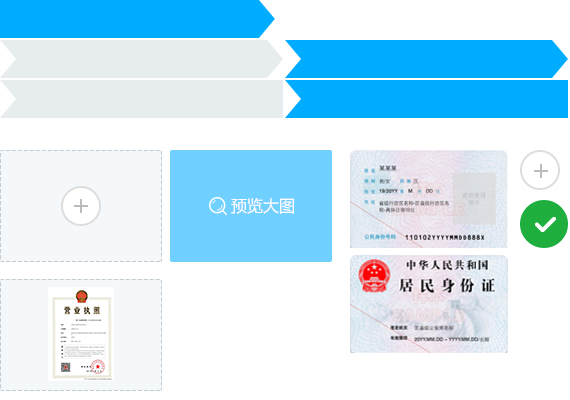
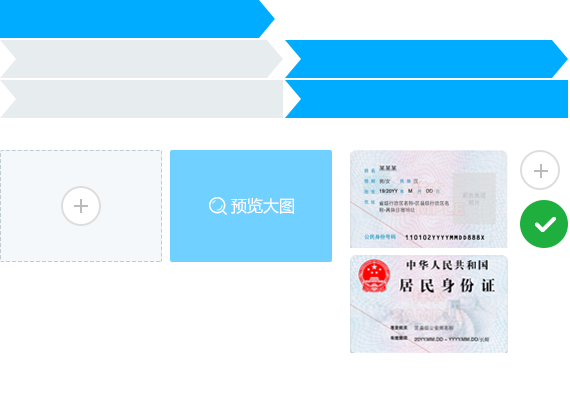
注册页面

Changed region(s): [[0.0895, 0.72, 0.2088, 0.96]]

diff --git a/asset/css/register.css b/asset/css/register.css
@@ -1,7 +1,60 @@
-.test{
-    color:#0f0;
-}
-body{
-    font-size: 22px;
-}
-/*wang*/
+@charset "utf-8";
+.page-kd { width: 1100px; margin: 0 auto; }
+/* 头部*/
+.header { height: 100px; padding-top: 15px; }
+.header .top-logo { background: url(../img/ay-logo.png) no-repeat; height: 54px; width: 143px; display: block; margin: 0 50px 30px; }
+.header .hide-text { overflow: hidden; text-indent: 100%; white-space: nowrap; font-size: 14px; }
+/* 注册进度 */
+.jd-list { overflow: hidden; }
+.jd-list ul { list-style: none; margin: 0; padding: 0; }
+.jd-list ul li { float: left; width: 283px; height: 38px; vertical-align: top; padding-top: 10px; padding-bottom: 10px; line-height: 16px; padding-left: 60px; background-image: url(../img/bg-all.png); background-repeat: no-repeat; color: #666; position: relative; margin-left: -8px; font-size: 14px; }
+.jd-list ul li.last { width: 275px; margin-left: 0; }
+.jd-list ul li.middle { width: 283px; background-position: 0 -40px; }
+.jd-list ul li.first { width: 283px; background-position: 0 -80px; }
+.jd-list ul li .yuan { background: url(../img/bg-all.png) no-repeat 0px -120px; display: block; height: 18px; width: 18px; line-height: 18px; float: left; text-align: center; margin-right: 10px; }
+.jd-list ul li.ok { color: #fff; }
+.jd-list ul li.ok .yuan { color: #00acff; }
+.jd-list ul li.middle.ok { background-position: -285px -40px; }
+.jd-list ul li.first.ok { background-position: -285px -80px; }
+/* 注册内容  */
+.reg-content { margin-top: 30px; background: #fff; border-radius: 4px; box-shadow: 0px 5px 17px 0px rgba(0, 13, 19, 0.04); padding-top: 50px; padding-bottom: 50px; clear: both; overflow: hidden; }
+/* 信用代码验证*/
+.reg-content .idcode { width: 640px; float: left; border-right: 1px solid #dedede; }
+.reg-content .idcode .tip-content { font-size: 16px; margin-left: 120px; }
+.reg-content .idcode .id-type { margin-top: 30px; }
+.reg-content .idcode .id-type .left { float: left; width: 200px; height: 60px; text-align: right; line-height: 60px; padding-right: 10px; }
+.reg-content .idcode .id-type .idname .hang { line-height: 30px; margin: 0px; }
+.reg-content .idcode label { font-size: 14px; font-weight: normal; color: #666; margin-bottom: 0; }
+.reg-content .idcode label input,
+.reg-content .idcode .xieyi label input { vertical-align: -2px; margin-right: 6px; }
+.btn-ay { color: #fff; background-color: #00acff; border-color: #00acff; }
+.btn-ay:hover { color: #fff; background-color: #009bfe; border-color: #009bfe; }
+.btn-ay.focus, .btn-ay:focus { color: #fff; background-color: #0095fe; border-color: #0095fe; }
+.reg-content .idcode .checkin-box { margin-top: 30px; line-height: 36px; height:36px; }
+.reg-content .idcode .checkin-box .left { width: 200px; text-align: right; padding-right: 10px; height: 36px; float: left; }
+.reg-content .idcode .checkin-box .reginput { width: 300px; }
+.reg-content .idcode .checkin-box .input-text { margin-left: 200px; position: relative; }
+.reg-content .idcode .checkin-box .input-text .regtip { font-size: 14px; line-height: 20px; color: #f00; position: absolute; z-index: 2; height: 20px; left: 0px; bottom: -24px; display:none; }
+.reg-content .idcode .checkin-box .input-text input { height: 36px; }
+.reg-content .idcode .checkin-box .input-text .code { width: 100px; float: left; }
+.reg-content .idcode .checkin-box .input-text .codeimg { border-radius: 6px; border: solid 1px #ccc; display: block; float:left; margin-left: 12px; }
+.reg-content .idcode .checkin-box .input-text .upcodeimg { margin-left: 12px; color: #00acff; width:78px; height: 36px; }
+.reg-content .idcode .checkin-box .input-text .upcodeimg a { color: #f00 }
+.reg-content .idcode .xieyi { padding-left: 200px; margin-top: 30px; font-size:12px; }
+.reg-content .idcode .xieyi label { font-size:12px; color: #666; }
+.reg-content .idcode .xieyi label input { vertical-align: -2px; }
+.reg-content .idcode .xieyi a { color: #00acff; }
+.reg-content .idcode .subform { margin-top:30px; margin-bottom:10px; padding-left: 200px; }
+.reg-content .idcode .subform .btn { width: 170px; height:36px; color: #fff; }
+.reg-content .login-text { text-align: center; margin-left: 640px; padding-top: 160px; font-size: 16px; }
+.reg-content .login-text a { margin-left:6px; color: #00acff; }
+/* 底部 */
+.reg-bottom { background: #424242; height: 46px; padding: 16px 0; margin-top: 60px; font-size: 14px; color: #fff; width: 100%; min-width: 1100px; }
+.reg-bottom .link { float: left; }
+.reg-bottom .link a { letter-spacing: 1px; margin-right: 20px; margin-left: 20px; line-height: 14px; color: #fff; font-size: 14px; }
+.reg-bottom .link em { font-style: normal; background: #fff; height: 14px; width: 1px; display: inline-block; }
+.reg-bottom .copyright { text-align: right; line-height:14px; margin-right: 20px; }
+/* 注册成功 */
+.reg-content .regok .title { height: 48px; font-size: 20px; color: #0073bd; text-align: center; line-height: 48px; margin-top: 50px; }
+.reg-content .regok .title em { background: url(../img/bg-all.png) no-repeat -520px -200px; display: inline-block; height: 48px; width: 48px; vertical-align: -14px; margin-right: 10px; }
+.reg-content .regok .text { width: 650px; border-top: dashed 2px #dedede; margin: 40px auto; padding-top: 50px; text-align: center; color: #666; font-size: 14px; height: 200px; }

diff --git a/app/view/register/tpl/step1.html b/app/view/register/tpl/step1.html
@@ -1,7 +1,52 @@
-<div class="step1">这里是step1</div>
-<a id="goStep2" href="/app/register.html#step2">下一步</a>
-<style lang="scss">
-    .step1{
-        color: pink;
-    }
-</style>
+{{include "./header.html"}}
+<div class="page-kd">
+    <!-- 注册进度 -->
+    <div class="jd-list">
+        <ul>
+            <li class="last ok"><span class="yuan">1</span>单位信息确认</li>
+            <li class="middle"><span class="yuan">2</span>单位信息确认</li>
+            <li class="middle"><span class="yuan">3</span>证照信息上传</li>
+            <li class="first"><span class="yuan">4</span>等待审核</li>
+        </ul>
+        <!-- 已完成或当前步骤的li里添加OK样式 -->
+    </div>
+    <div class="reg-content">
+        <div class="idcode">
+            <div class="tip-content">每个单位仅能注册一个账户</div>
+            <div class="id-type">
+                <div class="left">证件类型：</div>
+                <div class="idname">
+                    <div class="hang"><label><input id="idcode1" name="idcode1" type="radio" checked>多证合一营业执照</label></div>
+                    <div class="hang"><label><input id="idcode1" name="idcode1" type="radio">普通营业执照</label></div>
+                </div>
+            </div>
+            
+            <div class="checkin-box">
+                <div class="left">统一社会信用代码：</div>
+                <div class="input-text">
+                    <input name="xy-code" type="text" class="reginput form-control" id="xy-code" placeholder="请输入18位统一社会信用代码" value="" maxlength="18">
+                    <div class="regtip">请输入统一社会信用代码</div>
+                </div>
+            </div>
+            <div class="checkin-box">
+                <div class="left">验证码：</div>
+                <div class="input-text">
+                    <input name="yzm-code" type="text" class="code form-control" id="yzm-code" placeholder="" value="" maxlength="4">
+                    <img class="codeimg" id="codeimg" src="/asset/img/codeimg.png" width="78" height="36" >
+                    <span class="upcodeimg">看不清，<a href="javascript:;">换一换</a></span>
+                    <div class="regtip">请输入验证码</div>
+                </div>
+            </div>
+            
+            <div class="xieyi">
+                <label><input type="checkbox">我同意并遵守</label>
+                <a href="javascript:;">《安印电子印章用户守则》</a>
+            </div>
+            
+            <div class="subform"><button class="btn btn-ay" id="reguser" type="button" onClick="location='/app/register.html#step2'">注册</button></div>
+            
+        </div>
+        
+        <div class="login-text">已有帐号?<a href="">直接登录</a></div>
+    </div>
+</div>

diff --git a/app/view/register/tpl/main.html b/app/view/register/tpl/main.html
@@ -1,0 +1,30 @@
+<div class="wrapper">
+    <nav class="navbar navbar-inverse">
+      <div class="container-fluid">
+        <!-- Brand and toggle get grouped for better mobile display -->
+        <div class="navbar-header">
+          <button type="button" class="navbar-toggle collapsed" data-toggle="collapse" data-target="#bs-example-navbar-collapse-1" aria-expanded="false">
+            <span class="sr-only">Toggle navigation</span>
+            <span class="icon-bar"></span>
+            <span class="icon-bar"></span>
+            <span class="icon-bar"></span>
+          </button>
+          <a class="navbar-brand" href="#">Brand</a>
+        </div>
+
+        <!-- Collect the nav links, forms, and other content for toggling -->
+        <div class="collapse navbar-collapse" id="bs-example-navbar-collapse-1">
+          <ul class="nav navbar-nav">
+          {{each list}}
+            <li>
+              <a href="#{{$value.url}}">{{$value.name}}
+              </a>
+            </li>
+          {{/each}}
+          </ul>
+        </div><!-- /.navbar-collapse -->
+      </div><!-- /.container-fluid -->
+    </nav>
+    <div class="container"></div>
+    {{include "./footer.html"}}
+</div>

diff --git a/app/view/register/tpl/step4.html b/app/view/register/tpl/step4.html
@@ -1,2 +1,20 @@
-<div>这里是step4</div>
-<a id="goStep2" href="/app/register.html#step3">上一步</a>
+{{include "./header.html"}}
+<div class="page-kd">
+    <!-- 注册进度 -->
+	<div class="jd-list">
+		<ul>
+			<li class="last ok"><span class="yuan">1</span>单位信息确认</li>
+			<li class="middle ok"><span class="yuan">2</span>单位信息确认</li>
+			<li class="middle ok"><span class="yuan">3</span>证照信息上传</li>
+			<li class="first ok"><span class="yuan">4</span>等待审核</li>
+		</ul>
+		<!-- 已完成或当前步骤的li里添加OK样式 -->
+	</div>
+	
+	<div class="reg-content">
+		<div class="regok">
+			<div class="title"><em></em>恭喜您注册成功！</div>
+			<div class="text">感谢您的注册！先进入审核阶段，审核通过后将短信通知您审核结果，请留意！</div>
+		</div>		
+	</div>
+</div>

diff --git a/app/view/register/tpl/step2.html b/app/view/register/tpl/step2.html
@@ -1,3 +1,16 @@
+{{include "./header.html"}}
+<div class="page-kd">
+    <!-- 注册进度 -->
+	<div class="jd-list">
+		<ul>
+			<li class="last ok"><span class="yuan">1</span>单位信息确认</li>
+			<li class="middle ok"><span class="yuan">2</span>单位信息确认</li>
+			<li class="middle"><span class="yuan">3</span>证照信息上传</li>
+			<li class="first"><span class="yuan">4</span>等待审核</li>
+		</ul>
+		<!-- 已完成或当前步骤的li里添加OK样式 -->
+	</div>
+</div>
 <div class="step2">
 	<div class="Message">
 		<div class="mainTitle">
@@ -55,7 +68,9 @@
 		<a class="fl" id="goStep1" href="/app/register.html#step1">上一步</a>
 		<a class="fr" id="goStep3" href="/app/register.html#step3">下一步</a>
 	</div>
+   
 </div>
+
 <style>
 	.fl {
 		float: left;

diff --git a/app/view/register/tpl/step3.html b/app/view/register/tpl/step3.html
@@ -1,3 +1,16 @@
+{{include "./header.html"}}
+<div class="page-kd">
+    <!-- 注册进度 -->
+	<div class="jd-list">
+		<ul>
+			<li class="last ok"><span class="yuan">1</span>单位信息确认</li>
+			<li class="middle ok"><span class="yuan">2</span>单位信息确认</li>
+			<li class="middle ok"><span class="yuan">3</span>证照信息上传</li>
+			<li class="first"><span class="yuan">4</span>等待审核</li>
+		</ul>
+		<!-- 已完成或当前步骤的li里添加OK样式 -->
+	</div>
+</div>
 <div class="step3">
 	<div class="Message">
 		<div class="mainTitle">

diff --git a/app/page/register/entry/register.js b/app/page/register/entry/register.js
@@ -1,4 +1,5 @@
 import '../../../../asset/css/index.css';
+import '../../../../asset/css/register.css';
 import {add} from '../../../publicFun/public';
 require('../store/store.js');
 window.reqres.request(  'global', 'current-user' );
@@ -6,7 +7,7 @@ console.log(add())
 
 var Router = require('../Router');
 var Util = require('../../../publicFun/public');
-var tpl = require('../../../../asset/tpl/main.html');
+var tpl = require('../../../view/register/tpl/main.html');
 
 $('body').prepend(tpl({
     list: [

diff --git a/app/view/register/tpl/footer.html b/app/view/register/tpl/footer.html
@@ -1,0 +1,7 @@
+<!-- 注册底部 -->
+<div class="reg-bottom">
+    <div class="page-kd">
+        <div class="link"><a href="//www.i-yin.net/index.php?c=article&a=type&tid=9" target="_blank">关于安印</a><em></em><a href="//www.i-yin.net/index.php?c=article&a=type&tid=28" target="_blank">联系我们</a></div>
+        <div class="copyright">安印版权所有 2016-2017 ICP证：粤B2-25677777</div>
+    </div>
+</div>

diff --git a/app/register.html b/app/register.html
@@ -2,7 +2,7 @@
 <html>
     <head>
         <meta charset="UTF-8">
-        <title>Title</title>
+        <title>用户账号注册</title>
         <link href="/dist/register.css" rel="stylesheet" type="text/css">
         <link rel="stylesheet" type="text/css" href="/asset/lib/bootstrap/css/bootstrap.min.css">
         <!--[if lt IE 9]>

diff --git a/app/view/register/tpl/header.html b/app/view/register/tpl/header.html
@@ -1,0 +1,4 @@
+<!-- 注册头部 -->
+<div class="page-kd header">
+    <h1 class="top-logo hide-text">电子印章管理平台</h1>
+</div>
